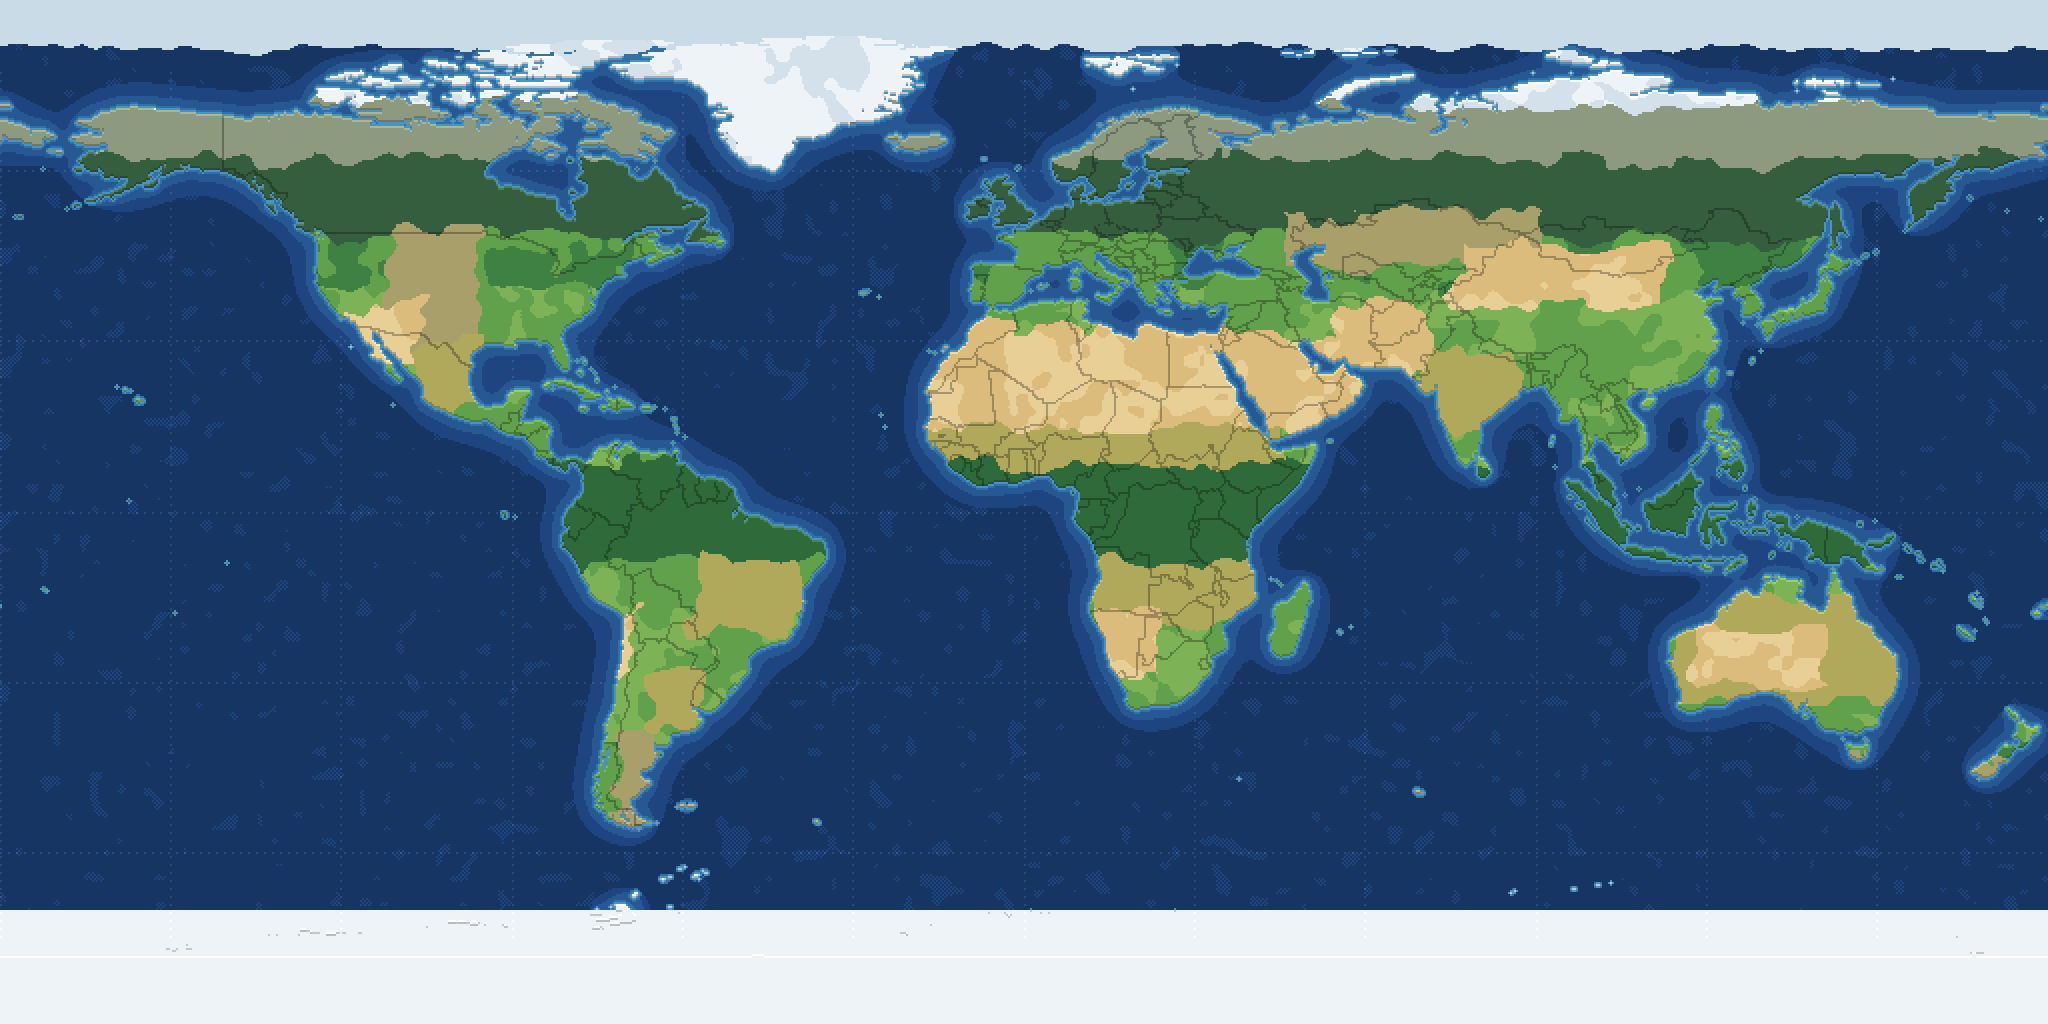
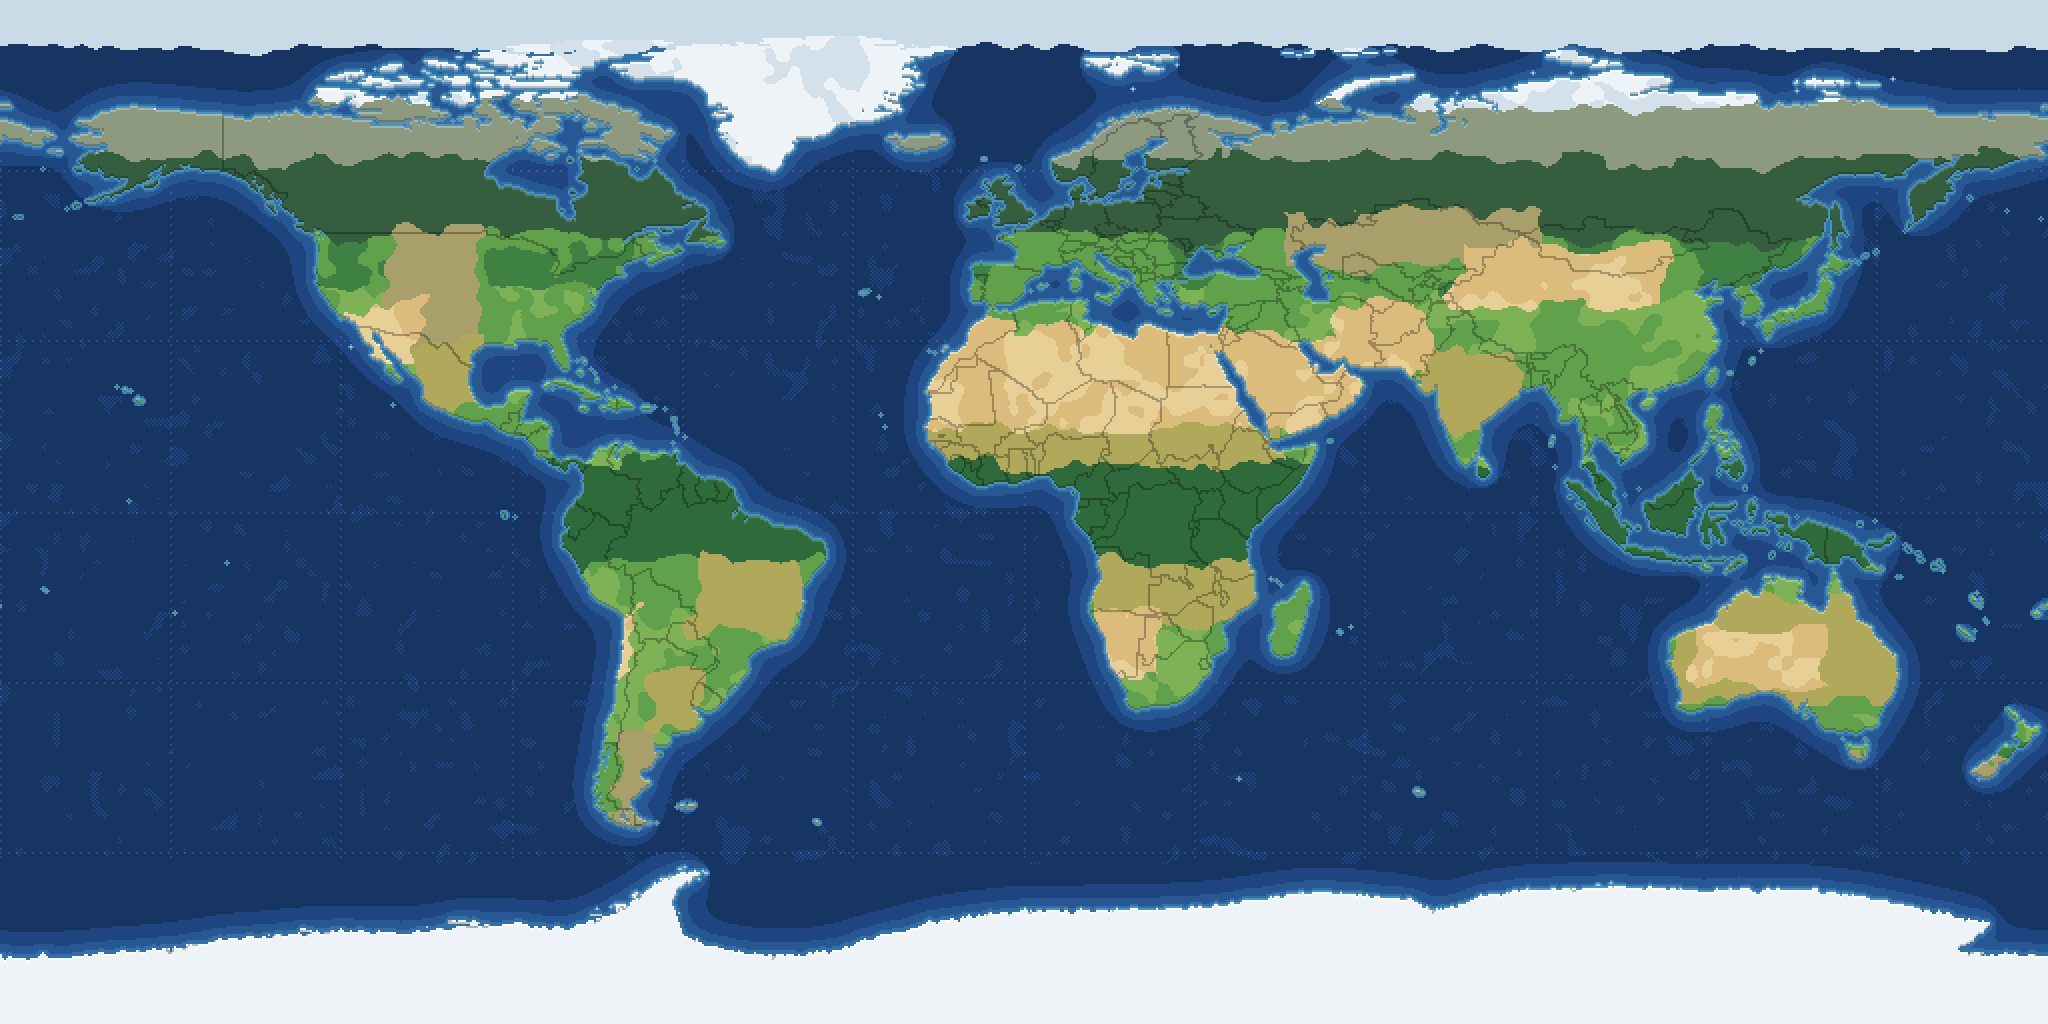
Antarctica: real mainland shape instead of a polar disc

Changed region(s): [[0.0, 0.8125, 1.0, 0.9375], [0.5, 0.0625, 0.5312, 0.0938], [0.125, 0.0625, 0.1562, 0.0938]]

diff --git a/tools/make-earth.py b/tools/make-earth.py
@@ -41,13 +41,33 @@ for k, name in enumerate(names, 1):
         for sh in (-360, 0, 360):
             bd.polygon([xy(lo + sh, la, W * SS, H * SS) for lo, la in u], fill=255)
             idd.polygon([xy(lo + sh, la, W, H) for lo, la in u], fill=k)
+# Antarctica's mainland is missing from the simplified outlines, so it is drawn from an approximate coastline
+# ([lon, lat], west to east), with a little wobble so the coast isn't smooth.
+ANT = [(-180, -78.2), (-170, -78.4), (-160, -77.6), (-150, -76.8), (-140, -75.2), (-130, -74.3), (-120, -73.6),
+       (-110, -74.2), (-100, -73.0), (-90, -72.6), (-80, -73.2), (-75, -71.8), (-70, -69.5), (-67, -67.0),
+       (-64, -65.0), (-60, -63.6), (-57, -63.3), (-58.5, -64.6), (-61, -66.2), (-62, -68.5), (-61, -71.0),
+       (-60, -74.5), (-55, -76.5), (-48, -77.9), (-40, -78.0), (-33, -77.0), (-27, -75.0), (-20, -73.2),
+       (-12, -71.5), (-5, -70.6), (5, -70.1), (15, -70.0), (25, -69.9), (33, -69.4), (40, -68.6), (48, -67.2),
+       (55, -66.9), (62, -67.6), (68, -68.2), (71, -70.0), (75, -69.6), (80, -67.8), (88, -66.6), (95, -66.3),
+       (105, -66.0), (112, -66.3), (120, -66.6), (130, -66.3), (138, -66.6), (145, -67.4), (152, -68.6),
+       (160, -70.4), (166, -71.6), (170, -72.5), (167, -75.0), (164, -77.0), (170, -78.0), (180, -78.2)]
+rngA = np.random.default_rng(3)
+coast = []
+for (lo1, la1), (lo2, la2) in zip(ANT, ANT[1:]):
+    for t in np.linspace(0, 1, 12, endpoint=False):
+        coast.append((lo1 + (lo2 - lo1) * t, la1 + (la2 - la1) * t + rngA.normal(0, 0.25)))
+coast.append(ANT[-1])
+bd.polygon([xy(lo_, la_, W * SS, H * SS) for lo_, la_ in coast + [(180, -90), (-180, -90)]], fill=255)
+ANT_ID = len(names) + 1
+idd.polygon([xy(lo_, la_, W, H) for lo_, la_ in coast + [(180, -90), (-180, -90)]], fill=ANT_ID)
+
 land = np.array(big.resize((W, H), Image.BOX)) > 110
 cid = np.array(ids)
 # Antarctica's ring may not reach the pole: fill everything south of -84 as land
 lat = 90 - (np.arange(H) + 0.5) / H * 180
 lon = (np.arange(W) + 0.5) / W * 360 - 180
 LAT, LON = np.meshgrid(lat, lon, indexing='ij')
-land |= LAT < -78
+land |= LAT < -86   # only the tiny hole right at the pole
 
 # --- smooth value noise for natural edges ------------------------------------------------------------
 rng = np.random.default_rng(7)
@@ -82,11 +102,10 @@ img[d3 & ~land] = P['ocean']
 img[d2 & ~land] = P['mid']
 img[d1 & ~land] = P['shallow']
 # a faint dithered sparkle in open water
-spark = (n2 > 0.86) & ~d3 & (np.indices((H, W)).sum(0) % 2 == 0)
+spark = (n2 > 0.86) & ~d3 & (np.indices((H, W)).sum(0) % 2 == 0) & (np.abs(LAT) < 62)
 img[spark] = P['ocean']
 # polar sea ice
 img[(LAT > 80 + 3 * N) & ~land] = P['ice_sea']
-img[(LAT < -70 - 3 * N) & ~land] = P['ice_sea']
 
 # --- land biomes ------------------------------------------------------------------------------------------
 la = LAT + (N - 0.5) * 6     # wobbly latitude so bands don't look ruled
@@ -111,7 +130,7 @@ des = (box(15, 33, -17, 35) | box(15, 31, 35, 60) | box(25, 36, 55, 71) | box(-3
 biome[des] = 'desert'
 biome[des & (N > 0.62)] = 'desert2'
 gr = cid == (names.index('Greenland') + 1)
-ant = (cid == (names.index('Antarctica') + 1)) | (LAT < -60)
+ant = (cid == (names.index('Antarctica') + 1)) | (cid == ANT_ID) | (LAT < -86)
 biome[(la > 72) | gr | ant] = 'snow'
 biome[((la > 72) | gr | ant) & (N > 0.6)] = 'snow2'
 for k in ['rain', 'forest', 'grass', 'grass2', 'savanna', 'steppe', 'desert', 'desert2', 'boreal', 'tundra', 'snow', 'snow2']:
@@ -119,7 +138,7 @@ for k in ['rain', 'forest', 'grass', 'grass2', 'savanna', 'steppe', 'desert', 'd
     img[m] = P[k]
 
 # --- flat ice caps near the poles (the map is stretched there, so any texture turns into streaks) ---
-img[LAT < -70] = P['snow']
+img[land & ant] = P['snow']          # Antarctica: one flat ice colour, real coastline
 img[(LAT > 84)] = P['ice_sea']
 
 # --- light shading on land: a lighter top-left edge, darker bottom-right, for a bit of relief -------
@@ -149,7 +168,7 @@ for g in range(-60, 61, 30):
     r = int((90 - g) / 180 * H); grid[r, ::4] = True
 for g in range(-180, 180, 30):
     c = int((g + 180) / 360 * W); grid[::4, c] = True
-gm = grid & ~d2 & (np.abs(LAT) < 78)
+gm = grid & ~d2 & (np.abs(LAT) < 62)
 img[gm] = np.minimum(255, img[gm].astype(int) + 22).astype(np.uint8)
 
 out = Image.fromarray(img).resize((W * 2, H * 2), Image.NEAREST)
